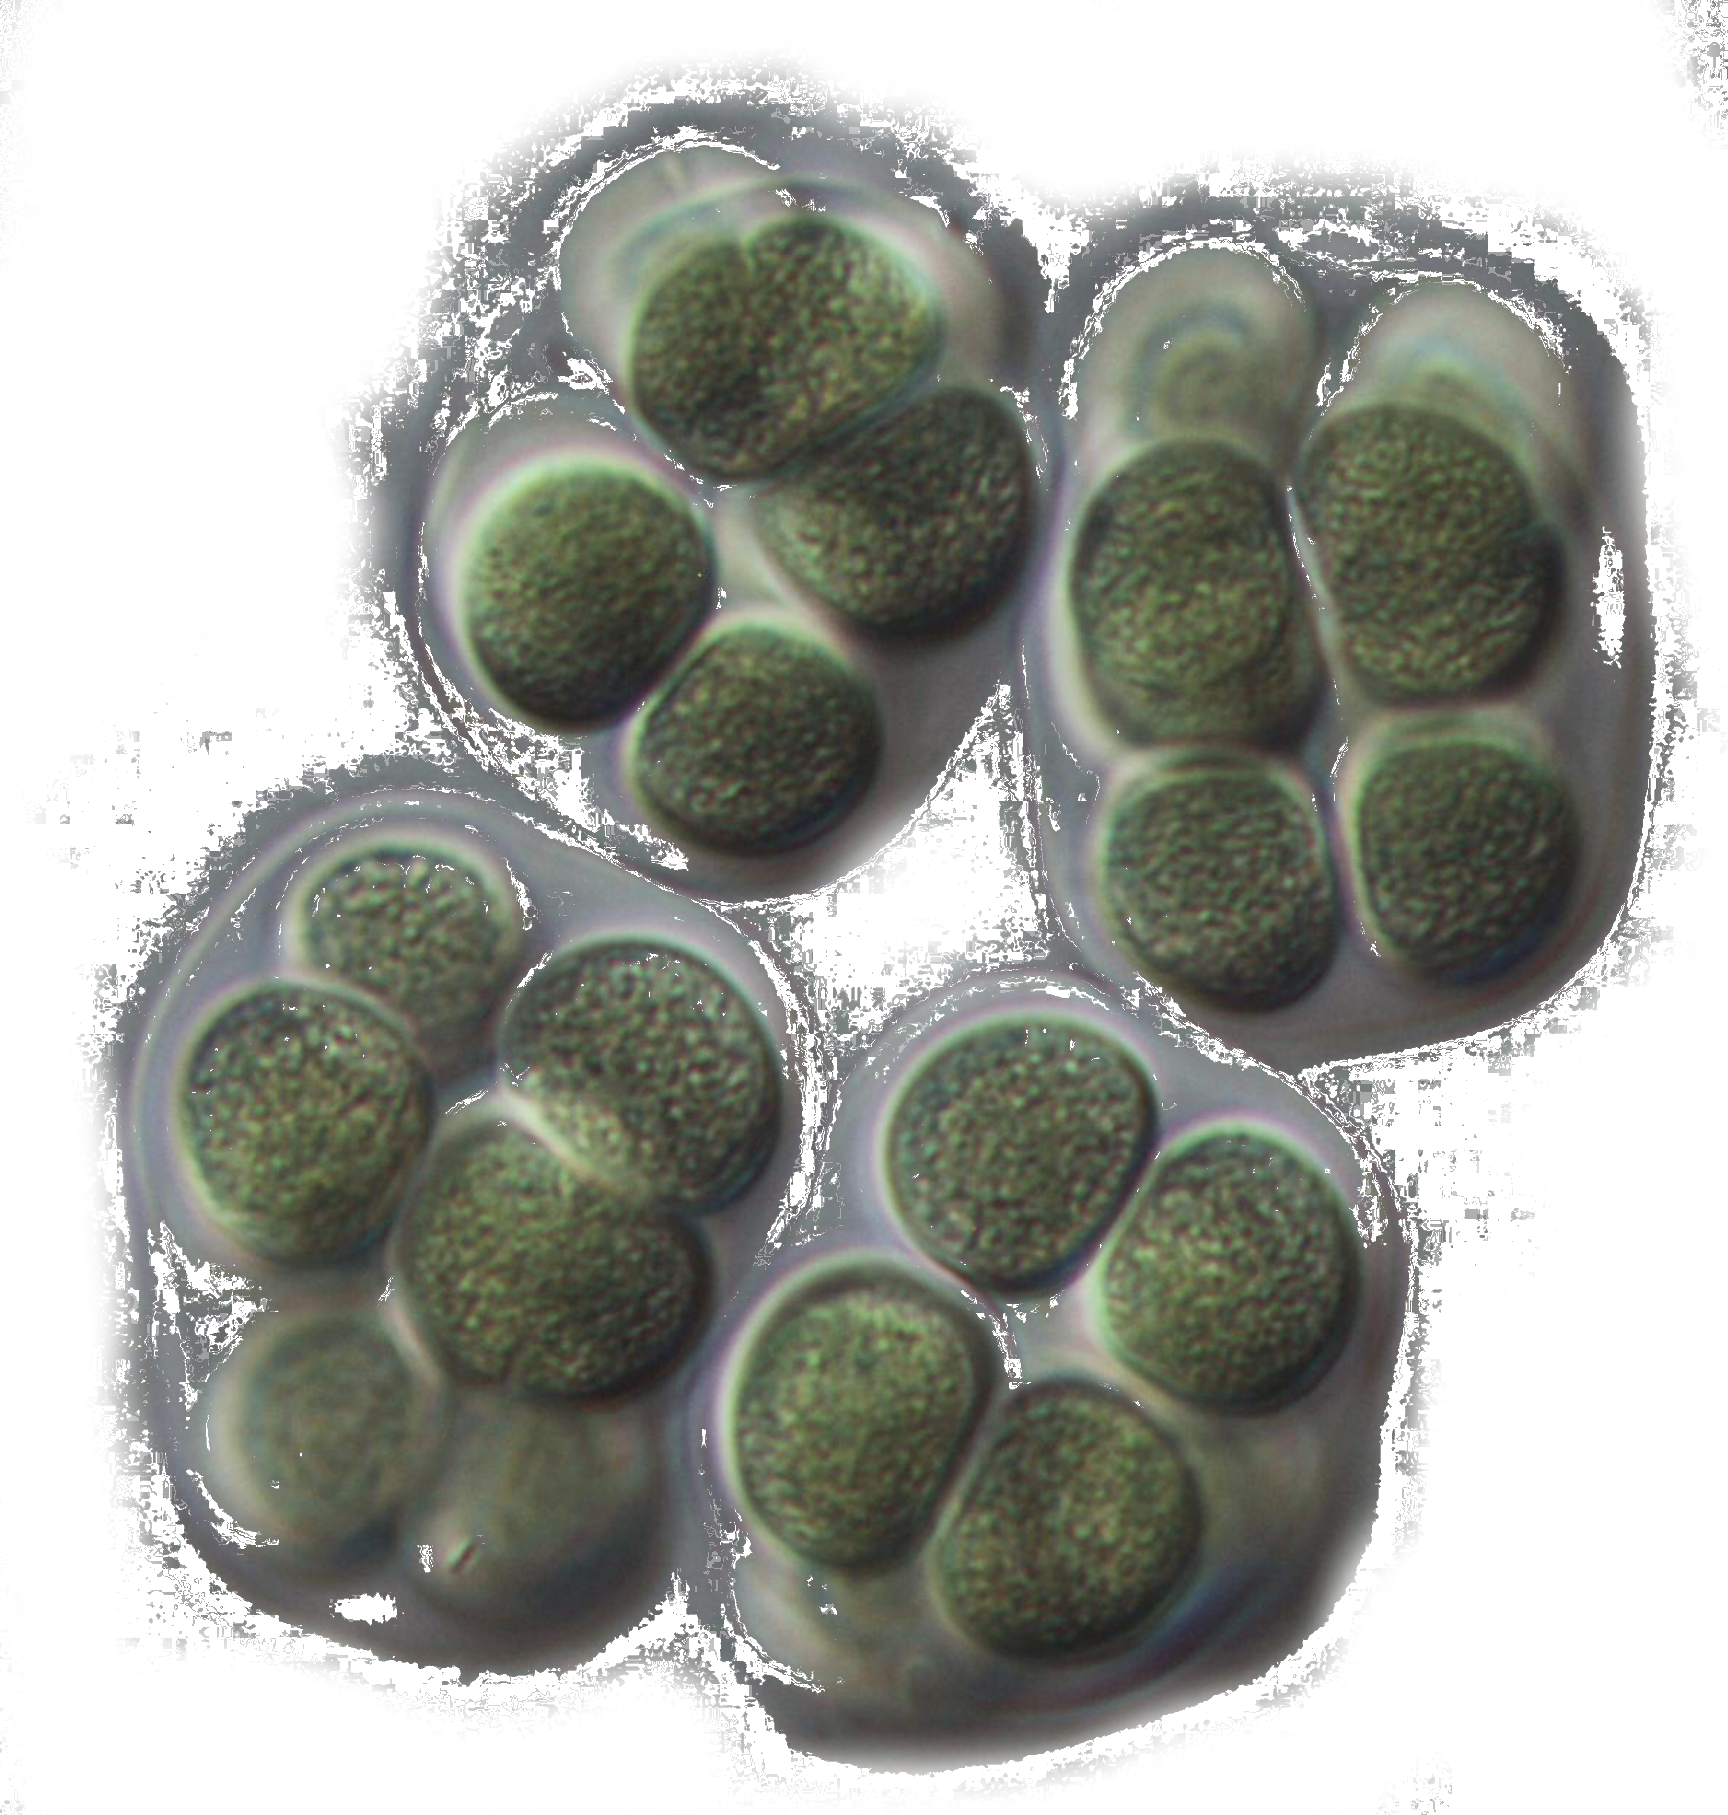
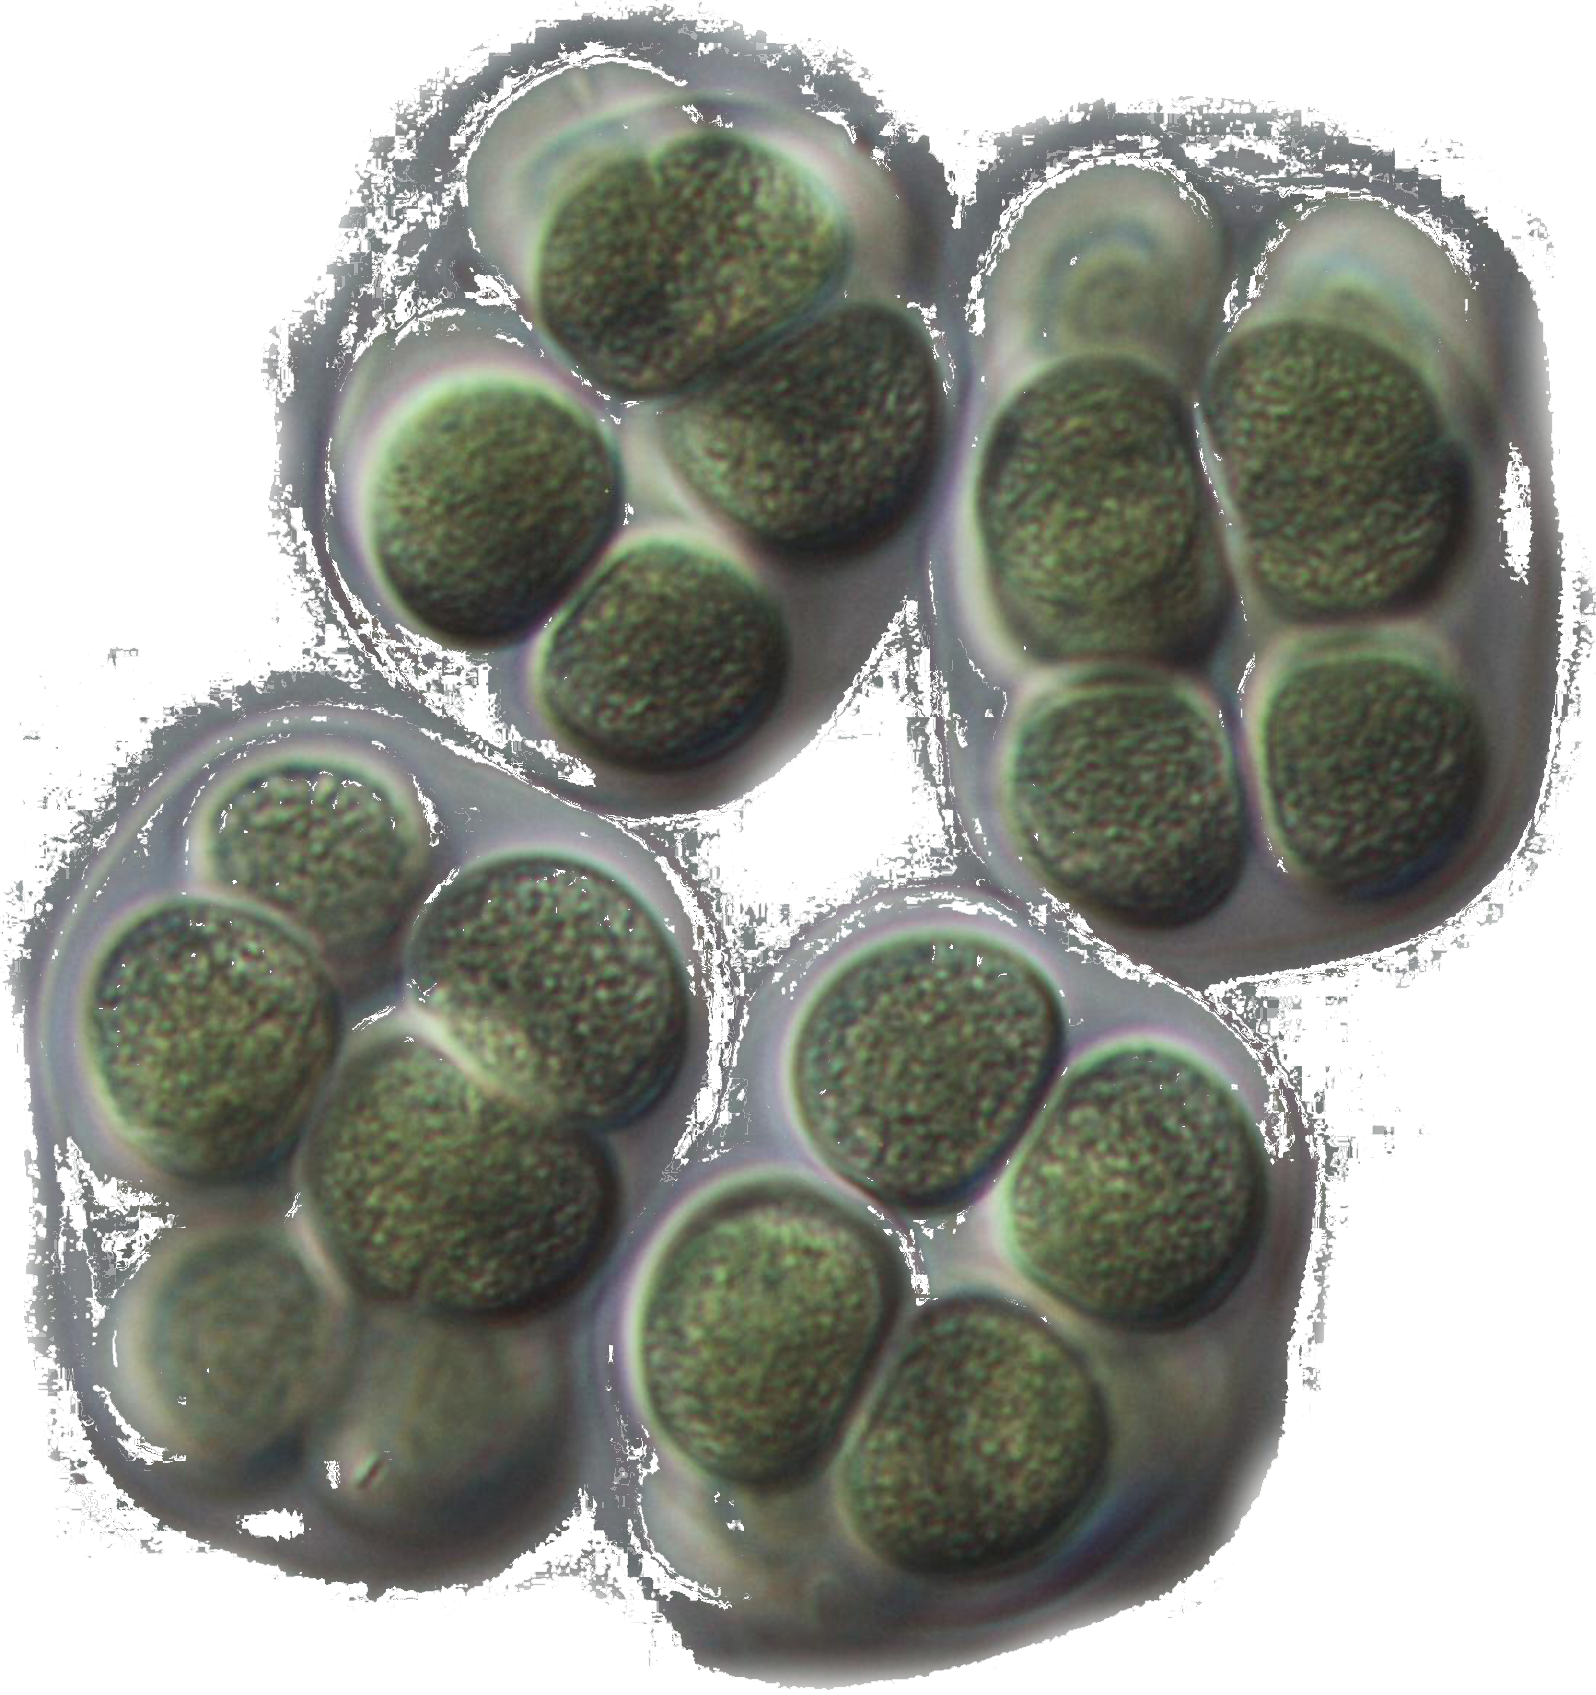
Range fully functional
algae lib now a double dictionary which can be used as a double array to
possibly store all the session data. SEE TEST.PY
Renamed algaeLibrary.py to Globals.py and setnames() to preparearrays()
(in algaetable)
shrank the size of eucapsis.png by shaving off some empty space

diff --git a/ActiveCode/preferences.py b/ActiveCode/preferences.py
@@ -9,7 +9,7 @@
 import sys, os
 from PyQt4 import QtCore, QtGui
 import algaeTable
-from algaeLibrary import *
+from Globals import *
 try:
     _fromUtf8 = QtCore.QString.fromUtf8
 except AttributeError:
@@ -24,7 +24,7 @@ except AttributeError:
     def _translate(context, text, disambig):
         return QtGui.QApplication.translate(context, text, disambig)
 #if no value is specified each session will have this number of trials
-defaultNumTrials=5
+
 
 class Ui_Preferences(object):
     
@@ -92,8 +92,10 @@ class Ui_Preferences(object):
         self.Check_All = QtGui.QCheckBox( "Include All" ,self.Group_Program_Options)
         self.Check_All.setObjectName(_fromUtf8("Check_include"))
         self.Check_All.setGeometry(QtCore.QRect(35,15, 100, 50))
+        self.Check_All.stateChanged.connect(self.allChecked)
+        self.Count_Check=0
         #always add the "check all button"
-        self.CheckBoxList.append(self.Check_All)
+        #self.CheckBoxList.append(self.Check_All)
         
         Index=0
         #iterate through the whole algae dictionary and add a graphic/check box for each species
@@ -115,20 +117,19 @@ class Ui_Preferences(object):
             self.Check_include = QtGui.QCheckBox( self.CurrentLayoutWidget)
             self.Check_include.setObjectName(_fromUtf8("Check_include"))
             self.Check_include.setGeometry(QtCore.QRect(20, 0, 130, 47))
-            #self.Check_include.stateChanged.connect(self.handleItemClicked)
-            self.CheckBoxList.append(self.Check_include)
+            self.Check_include.stateChanged.connect(self.CheckStateChanged)
+            
+            self.CheckBoxList.append(self.CurrentLayoutWidget)#self.Check_include)
 
             self.Label_Range=QtGui.QLabel("Range",self.CurrentLayoutWidget)
             self.Label_Range.setGeometry(QtCore.QRect(100, -10, 100, 30))
             
             self.Text_Range_Low=QtGui.QLineEdit(self.CurrentLayoutWidget)
             self.Text_Range_Low.setPlaceholderText("From")
-            self.Text_Range_Low.setText(str(algaeTable.Default_Min_Count))
             self.Text_Range_Low.setGeometry(QtCore.QRect(100, 15, 100, 20))
 
             self.Text_Range_High=QtGui.QLineEdit(self.CurrentLayoutWidget)
             self.Text_Range_High.setPlaceholderText("To")
-            self.Text_Range_High.setText(str(algaeTable.Default_Max_Count))
             self.Text_Range_High.setGeometry(QtCore.QRect(220, 15, 100, 20))
 
             self.formLayout.setWidget(Index, QtGui.QFormLayout.FieldRole, self.CurrentGroupBox)
@@ -139,7 +140,7 @@ class Ui_Preferences(object):
             self.CurrentGraphicsView = QtGui.QLabel(self.List_Algae_Select)
             self.CurrentGraphicsView.setObjectName(_fromUtf8("CurrentGraphicsView"))
             self.formLayout.setWidget(Index, QtGui.QFormLayout.LabelRole, self.CurrentGraphicsView)
-            self.CurrentGraphicsView.setPixmap(QtGui.QPixmap(os.getcwd() + "/Assets/20um/"+algaeTable.AlgaeLib[key]+".png"))
+            self.CurrentGraphicsView.setPixmap(QtGui.QPixmap(os.getcwd() + "/Assets/20um/"+algaeTable.AlgaeLib[key]["File"]+".png"))
             self.CurrentGraphicsView.setFixedWidth(75)
             self.CurrentGraphicsView.setFixedHeight(75)
             #CurrentGraphicsView.setGeometry(0,0,90,90)
@@ -173,41 +174,57 @@ class Ui_Preferences(object):
         self.tabWidget.setTabText(self.tabWidget.indexOf(self.Session), _translate("Preferences", "Session", None))
         self.Button_Ok.setText(_translate("Preferences", "OK", None))
         self.Button_Cancel.setText(_translate("Preferences", "Cancel", None))
-
+        
+    #if Check_All box is checked then check all the other boxes    
+    def allChecked(self,state):
+        if state== QtCore.Qt.Checked:
+            for x in xrange(len (self.CheckBoxList)):
+                self.CheckBoxList[x].childAt(20,0).setCheckState(QtCore.Qt.Checked)
+                self.Count_Check+=1
+    #keep track of how many boxes are checked         
+    def CheckStateChanged(self,state):
+        if state== QtCore.Qt.Checked:
+            self.Count_Check+=1
+        else:
+            self.Count_Check-=1
+            self.Check_All.setCheckState(QtCore.Qt.Unchecked)
+            
     #when ok is clicked iterate through all check boxes and only add the checked
     #algae to the samples
     def clickedOK(self):
-        x=1
+        x=0
         algaeTable.clearArrays()
         for key in algaeTable.AlgaeLib:
-            if self.CheckBoxList[0].isChecked():
+            if  self.Count_Check==0:
                 algaeTable.Name_Array.append(key)
-                algaeTable.Max_Count_Array.append(int(self.Text_Range_High.text()))
-                algaeTable.Min_Count_Array.append(int(self.Text_Range_Low.text()))
-                
-            elif self.CheckBoxList[x].isChecked():
+                try:
+                    val=int(self.CheckBoxList[x].childAt(100,15).text()),int(self.CheckBoxList[x].childAt(220,15).text())
+                    algaeTable.Min_Count_Array.append(val[0])
+                    algaeTable.Max_Count_Array.append(val[1])
+                except ValueError:
+                    algaeTable.Max_Count_Array.append(algaeTable.Default_Max_Count)
+                    algaeTable.Min_Count_Array.append(algaeTable.Default_Min_Count)
+                    
+            elif self.CheckBoxList[x].childAt(20,0).isChecked():
                 algaeTable.Name_Array.append(key)
-                #print self.Text_Range_High.text()
-                algaeTable.Max_Count_Array.append(int(self.Text_Range_High.text()))
-                algaeTable.Min_Count_Array.append(int(self.Text_Range_Low.text()))
+                print "printing x in loop"
+                print x
+                try:
+                    val=int(self.CheckBoxList[x].childAt(100,15).text()),int(self.CheckBoxList[x].childAt(220,15).text())
+                    algaeTable.Min_Count_Array.append(val[0])
+                    algaeTable.Max_Count_Array.append(val[1])
+                except ValueError:
+                    algaeTable.Max_Count_Array.append(algaeTable.Default_Max_Count)
+                    algaeTable.Min_Count_Array.append(algaeTable.Default_Min_Count)
             x+=1
             
-        #if no boxes were checked add all species
-        x=0    
-        if not algaeTable.Name_Array:
-            for key in AlgaeLib:
-                x+=1    
-                algaeTable.Name_Array.append(key)
-                #algaeTable.Max_Count_Array.append(int(self.Text_Range_High.text()))
-                #algaeTable.Min_Count_Array.append(int(self.Text_Range_Low.text()))
-                
-        #append the number of trials requested by the user
+        #set the number of trials requested by the user
         #if no value specified use default
         try:
            val = int(self.Input_Num_Trials.text())
-           algaeTable.Num_Trials=val
+           algaeTable.Set_Num_Trials(val)
         except ValueError:
-           algaeTable.Num_Trials=defaultNumTrials
+           algaeTable.Set_Num_Trials(algaeTable.Default_Num_Trials)
            
         self.pref.done(int(True))
 
@@ -222,10 +239,7 @@ class Ui_Preferences(object):
                 
             algaeTable.Name_Array.append(defaultNumTrials)
             self.pref.done(int(True))
-    #when called returns the session parameters including algae
-    #species and number of trials
-    #def retVal(self):
-        #return self.AlgaeIncludeSet
+
 
 
 if __name__ == "__main__":

diff --git a/ActiveCode/algaeTable.py b/ActiveCode/algaeTable.py
@@ -14,11 +14,15 @@ class AlgaeTable:
     
     def __init__(self):
         # Data
-        self.AlgaeLib={
-            "Lepo Ovalis":"Attempt001",
-            "Eucapsis":"eucapsis_jul6_11_400N_JUD",
-            "Aphaniz Akinetes":"aphaniz_akinetes_sep16_10_200N_TBIRD"}
+        #This is now a dictionary within a dictionary
+        #this can be used as a 2d array run test.py for a sample :)
         
+        self.AlgaeLib={
+            "Lepo Ovalis":{"File":"Attempt001"},
+            "Eucapsis":{"File":"eucapsis_jul6_11_400N_JUD"},
+            "Aphaniz Akinetes":{"File":"aphaniz_akinetes_sep16_10_200N_TBIRD"}
+            }
+        self.Default_Num_Trials=5
         self.Num_Trials=5
         self.Total_Trials=self.Num_Trials
         self.Name_Array = []
@@ -37,7 +41,7 @@ class AlgaeTable:
         return self.Name_Array[ID]
 
     def Get_File_Name(self,ID):
-        return self.AlgaeLib[self.Name_Array[ID]] + ".png"
+        return self.AlgaeLib[self.Name_Array[ID]]["File"] + ".png"
 
     def Get_Count(self,ID):
         return self.Total_Count_Array[ID]
@@ -52,6 +56,11 @@ class AlgaeTable:
     def Get_Num_Trials(self):
         return self.Num_Trials    
 
+    def Set_Num_Trials(self, num):
+        self.Num_Trials = num
+        self.Total_trials = self.Num_Trials
+
+
     def Set_Count_Range(self, ID, Min, Max):
         self.Min_Count_Array[ID] = Min
         self.Max_Count_Array[ID] = Max
@@ -63,8 +72,7 @@ class AlgaeTable:
         self.Max_Count_Array[ID] = Max
 
     def Set_Num_Trials(self, num):
-        self.Num_Trials = int(num)
-        self.Total_trials = self.Num_Trials
+        self.Num_Trials = int(num)\
                           
     def clearArrays(self):
         self.Name_Array[:]=[]
@@ -72,16 +80,10 @@ class AlgaeTable:
         self.Min_Count_Array[:]=[]
         self.Max_Count_Array[:]=[]
         
-    def setNames(self):
+    def PrepareArrays(self):
         #clear all the arrays before every session
-        #self.Name_Array[:]=[]
-        
-        
-        #self.Name_Array=list(session)
         self.Total_Algae_Types = len(self.Name_Array)
         self.Total_Count_Array = [0 for x in xrange(self.Total_Algae_Types)]
-        #self.Min_Count_Array = [self.Default_Min_Count for x in xrange(self.Total_Algae_Types)]
-        #self.Max_Count_Array = [self.Default_Max_Count for x in xrange(self.Total_Algae_Types)]
         self.Total_Mass_Array = [0.00 for x in xrange(self.Total_Algae_Types)]
 
     def Generate_Sample(self):

diff --git a/ActiveCode/mainWindow.py b/ActiveCode/mainWindow.py
@@ -11,7 +11,7 @@
 import sys, os
 import math
 import algaeTable
-from algaeLibrary import *
+from Globals import *
 
 import random
 from random import randint
@@ -348,10 +348,11 @@ class Ui_MainWindow(object):
             pass     
             
     def setNames(self):
+        
         for x in xrange(algaeTable.Total_Algae_Types):
             #self.ans_table.insertRow(0)
             self.ans_table.setItem(x,0,QtGui.QTableWidgetItem(algaeTable.Get_Name(x)))
-            self.ans_table.setItem(x,1,QtGui.QTableWidgetItem("0"))
+            #self.ans_table.setItem(x,1,QtGui.QTableWidgetItem("0"))
 
             #change second cell to a comboBox
             combo = QtGui.QComboBox()
@@ -361,7 +362,7 @@ class Ui_MainWindow(object):
             combo.addItem("2" + u'\u2077')
             combo.addItem("2" + u'\u2078')
 
-            self.ans_table.setCellWidget(0,1, combo)
+            self.ans_table.setCellWidget(x,1, combo)
             self.ans_table.item(x,0).setFlags(Qt.NoItemFlags)
             self.ans_table.sortItems(0,Qt.AscendingOrder)
             
@@ -393,6 +394,7 @@ class Ui_MainWindow(object):
             ui.setModal(True) 
             ui.exec_()
             ## Start new session
+            algaeTable.Set_Num_Trials(algaeTable.Total_Trials)
             self.openPreferences()
         
         #after Results page closes generate new sample and reset forms
@@ -415,7 +417,7 @@ class Ui_MainWindow(object):
     def setSession(self): #session):
         #algaeTable.Set_Num_Trials(session.pop())
         algaeList[:]=[]
-        algaeTable.setNames()
+        algaeTable.PrepareArrays()
         self.resetForms()
         algaeTable.Generate_Sample()
         self.setUpScene(self.scene, self.view) 

diff --git a/ActiveCode/test.py b/ActiveCode/test.py
@@ -1,0 +1,43 @@
+#helpful site
+#http://www.pythonforbeginners.com/dictionary/
+
+import sys, os
+from PyQt4 import QtCore, QtGui
+import algaeTable
+from Globals import *
+
+if __name__ == "__main__":
+    print "printing all keys algae in dictinary"
+    for key in algaeTable.AlgaeLib:
+        print key
+
+    print"\n"
+
+    
+    print "adding 9 trials for Lepo Ovalis to the dictionary"
+    for x in range(1,10):
+        algaeTable.AlgaeLib["Lepo Ovalis"]["trial"+str(x)]=x+10
+
+    print"\n"
+
+    
+    print"printing all the trial information for the algae Lepo Ovalis"
+    for x in range(1,10):
+        print "trial "+str(x)
+        print algaeTable.AlgaeLib["Lepo Ovalis"]["trial"+str(x)]
+    print"\n"
+    
+
+    print "adding 9 trials for every algae in the dictionary"
+    for key in algaeTable.AlgaeLib:
+        for x in range(1,10):
+            algaeTable.AlgaeLib[key]["trial"+str(x)]=x+10
+    print"\n"
+            
+    print "printing the p trial session info for all algae"
+    for x in range(1,10):
+        print "trial"+str(x)+":"
+        for key in algaeTable.AlgaeLib:
+            print key+": "+str(algaeTable.AlgaeLib[key]["trial"+str(x)])
+        print ""
+    print"\n"

diff --git a/ActiveCode/results.py b/ActiveCode/results.py
@@ -198,7 +198,9 @@ class Ui_results(object):
         tableItem= ansTable.findItems(algaeSample.Get_Name(algaeIndex),QtCore.Qt.MatchFixedString)
         
         if(len(tableItem) > 0):
-            return ansTable.item(tableItem[0].row(),1).text()
+            #return ansTable.item(tableItem[0].row(),1).text()
+            #figure out how to get a value from a combobox?
+            return "coming soon."
         else:
             return "0"
         

diff --git a/ActiveCode/Globals.py b/ActiveCode/Globals.py
@@ -1,5 +1,7 @@
 """==========================================================================
 
+All GLobal Variables
+
 =========================================================================="""
 from algaeTable import *
 algaeTable=AlgaeTable()
